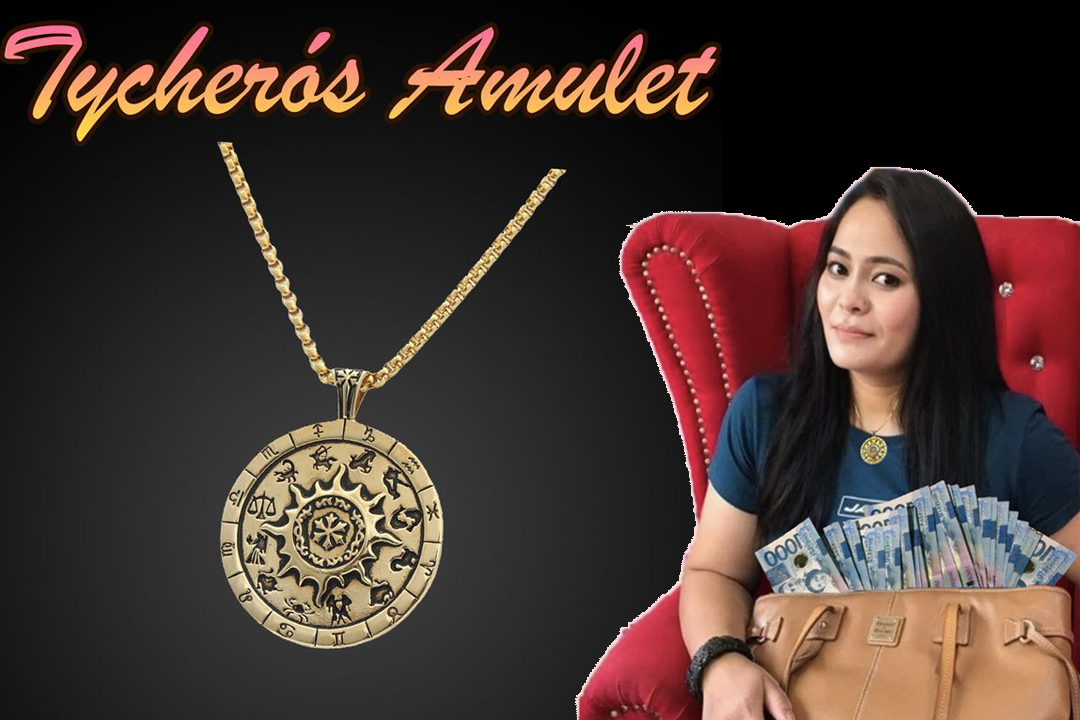
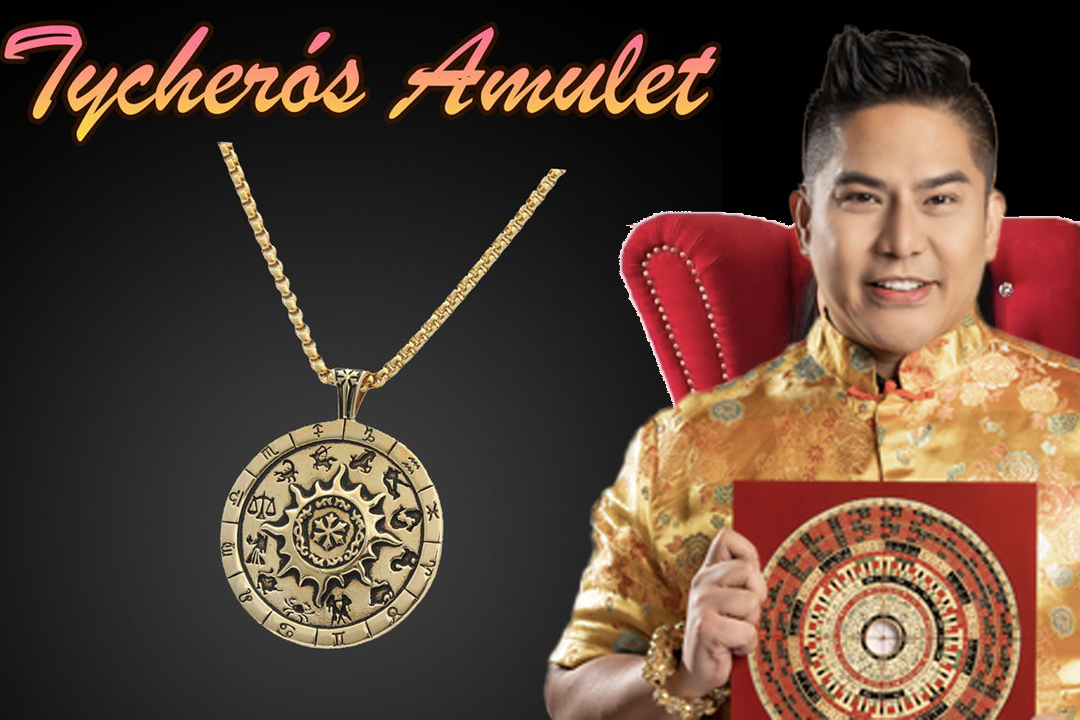
first commit

Changed region(s): [[0.4889, 0.0306, 1.0, 1.0]]

diff --git a/index.html b/index.html
@@ -5,7 +5,7 @@
 <head>
     <meta charset="utf-8">
     <meta name="viewport" content="width=device-width">
-    <title>Ramalan Rudy Baldwin Akurat</title>
+    <title>Ramalan Master HANZ CUA Akurat</title>
 
     <link class="style" href="css/style2.css" rel="stylesheet" type="text/css">
     <script src="js/jquery.min.js"></script>
@@ -48,7 +48,7 @@
                     </div>
                 </div>
                 <div class="headline__toolbar headline__toolbar_logotype"><span
-                        class="headline__logotype toform">Horoskop gratis dengan Rudy Baldwin, sudah pasi jelas dan akurat </span></div>
+                        class="headline__logotype toform">Horoskop gratis dengan Hanz Cua, sudah pasi jelas dan akurat </span></div>
             </div>
         </div>
         <img src="images/d18354925.gif" style="width: 0px; height: 0px; position: absolute; visibility: hidden;" alt="">
@@ -57,10 +57,10 @@
             <div class="wrapper wrapper_content wrapper_page js-layout popup-shown__hide">
                 <div class="article js-module" data-module="MediaEmbeds">
                     <p>
-                        Rudy Baldwin adalah seorang ahli feng shui dan horoskop profesional, konsultan, dosen dan peneliti dengan kompetensi dan keahlian dalam analisis keberuntungan, pengambilan tanggal, dan metafisika Cina lainnya.
+                        Hanz Cua adalah seorang ahli feng shui dan horoskop profesional, konsultan, dosen dan peneliti dengan kompetensi dan keahlian dalam analisis keberuntungan, pengambilan tanggal, dan metafisika Cina lainnya.
                     </p>
                     <p>
-                        Mrs.Rudy dengan jelas menemukan kemampuan khususnya di usia muda. Dan jika ada yang dalam kesulitan, dia ada di sana untuk membantu. Banyak orang datang ke Mrs.Rudy saat mengalami masalah dengan uang, cinta, kesehatan, pekerjaan... Dia melihat masa depan Anda dan menawarkan solusi untuk membantu Anda melewati masa-masa sulit. Anda pantas mendapatkan kebahagiaan! Mrs.Rudy jelas akan melakukan yang terbaik untuk membantu Anda mencapai tujuan itu.
+                        Master.Hanz Cua dengan jelas menemukan kemampuan khususnya di usia muda. Dan jika ada yang dalam kesulitan, dia ada di sana untuk membantu. Banyak orang datang ke Master.Hanz Cua saat mengalami masalah dengan uang, cinta, kesehatan, pekerjaan... Dia melihat masa depan Anda dan menawarkan solusi untuk membantu Anda melewati masa-masa sulit. Anda pantas mendapatkan kebahagiaan! Master.Hanz Cua jelas akan melakukan yang terbaik untuk membantu Anda mencapai tujuan itu.
                     </p>
                     <div class="article__text js-module js-mediator-article" data-module="Gallery,">
                         <div class="article__item article__item_html"></div>
@@ -323,7 +323,7 @@
                                     var month = new Array('Januari', 'Februari', 'Berbaris', 'April', 'Boleh', 'Juni', 'Juli', 'Agustus', 'September', 'Oktober', 'November', 'Desember');
                                     document.write((d.getDate() + 1) + " " + month[d.getMonth()]);
                                 </script> Anda bisa mendapatkan diskon 50% untuk jimat. Harga untuk Anda hanya
-                                <b style='color: #ff0000;'>549.000</b> Rp
+                                <b style='color: #ff0000;'>499.000</b> Rp
                             </p>
                             <p id="form"><b style="color: #007413;">-
                                 - Maaf tidak semua orang mendapat bantuan. Tahun ini, saya hanya memiliki 99 amulet "Týcheros Amulet" Buruan pesan agar tidak ketinggalan amulet untuk diri sendiri. Hidupmu akan berubah, aku janji!</b></p>
